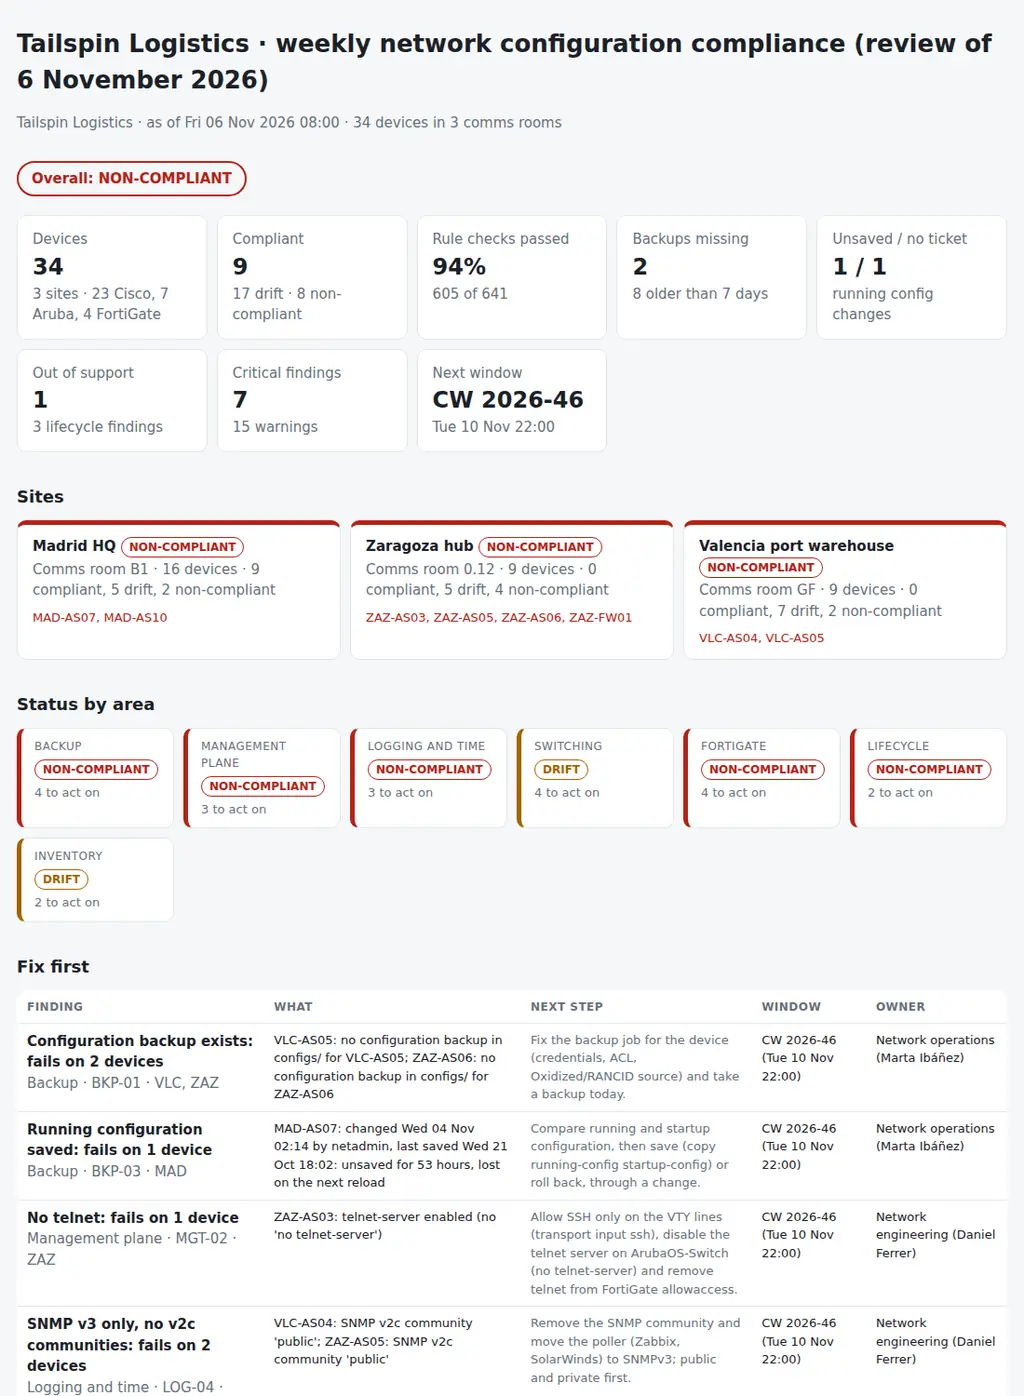
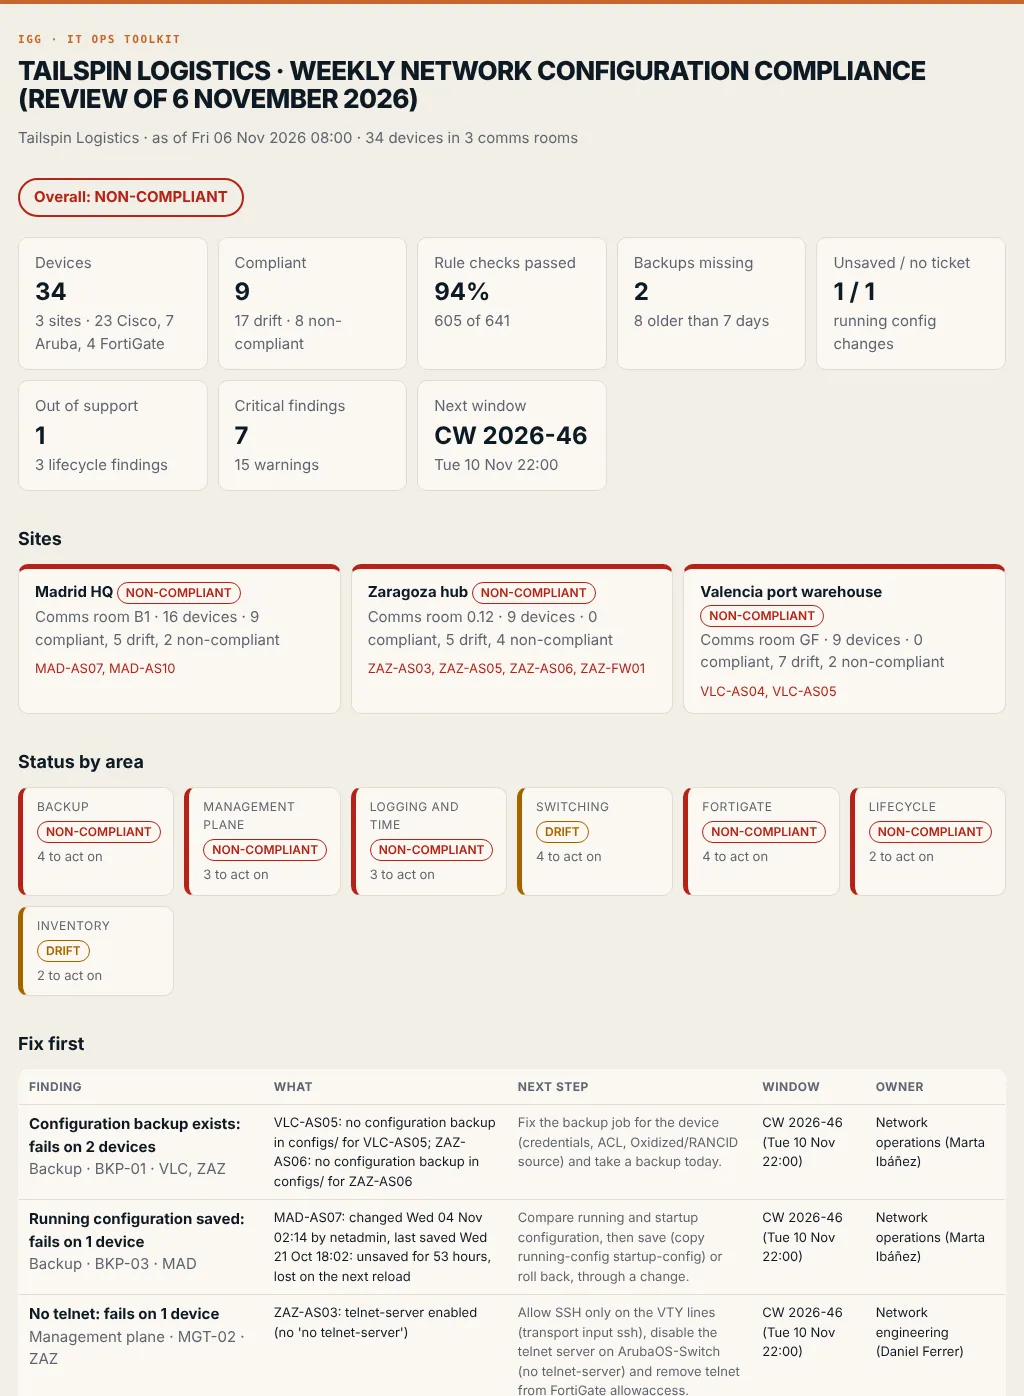
Report: IGG colours (paper, ink and the orange accent) and a new screenshot

diff --git a/netcompliance/report.py b/netcompliance/report.py
@@ -212,9 +212,9 @@ def pack_md(d: Data, rv: dict, findings: list[Finding], title: str) -> str:
 # ---------------------------------------------------------------- html
 
 CSS = """
-:root{--bg:#f6f7f8;--card:#fff;--ink:#1b2128;--muted:#66717c;--line:#e2e5e9;--ok:#1e7a4c;--warn:#a46200;--bad:#b42318;--info:#0b6bcb;--na:#c9ced4}
-@media (prefers-color-scheme:dark){:root{--bg:#13171b;--card:#1b2127;--ink:#e7eaee;--muted:#9aa5b0;--line:#2b333b;--ok:#4cc38a;--warn:#f0a83a;--bad:#f2685c;--info:#5aa9f0;--na:#3a434c}}
-*{box-sizing:border-box}body{margin:0;background:var(--bg);color:var(--ink);font:15px/1.5 system-ui,-apple-system,Segoe UI,sans-serif}
+:root{--bg:#f2eee6;--card:#fbf8f3;--ink:#0e1a24;--muted:#5d6670;--line:#e2dccf;--ok:#1e7a4c;--warn:#a46200;--bad:#b42318;--info:#1f5f8b;--na:#c9ced4}
+@media (prefers-color-scheme:dark){:root{--bg:#0e1a24;--card:#142331;--ink:#f2eee6;--muted:#a9b3bb;--line:#24364a;--ok:#4cc38a;--warn:#f0a83a;--bad:#f2685c;--info:#5aa9f0;--na:#3a434c}}
+*{box-sizing:border-box}body{border-top:4px solid #c4672b}h1{font-weight:800;letter-spacing:-.025em;text-transform:uppercase;line-height:1.05}h1::before{content:"IGG · IT Ops toolkit";display:block;font:600 11px/1.4 ui-monospace,SFMono-Regular,Menlo,monospace;letter-spacing:.14em;text-transform:uppercase;color:#c4672b;margin-bottom:10px}body{margin:0;background:var(--bg);color:var(--ink);font:15px/1.5 system-ui,-apple-system,Segoe UI,sans-serif}
 main{max-width:1100px;margin:0 auto;padding:28px 18px 60px}h1{font-size:26px;margin:0 0 4px}h2{font-size:18px;margin:34px 0 12px}h3{font-size:15px;margin:18px 0 8px}
 .muted{color:var(--muted)}.tiles{display:grid;grid-template-columns:repeat(auto-fit,minmax(170px,1fr));gap:10px;margin-top:20px}
 .tile{background:var(--card);border:1px solid var(--line);border-radius:10px;padding:14px 16px}.tile b{display:block;font-size:24px}
